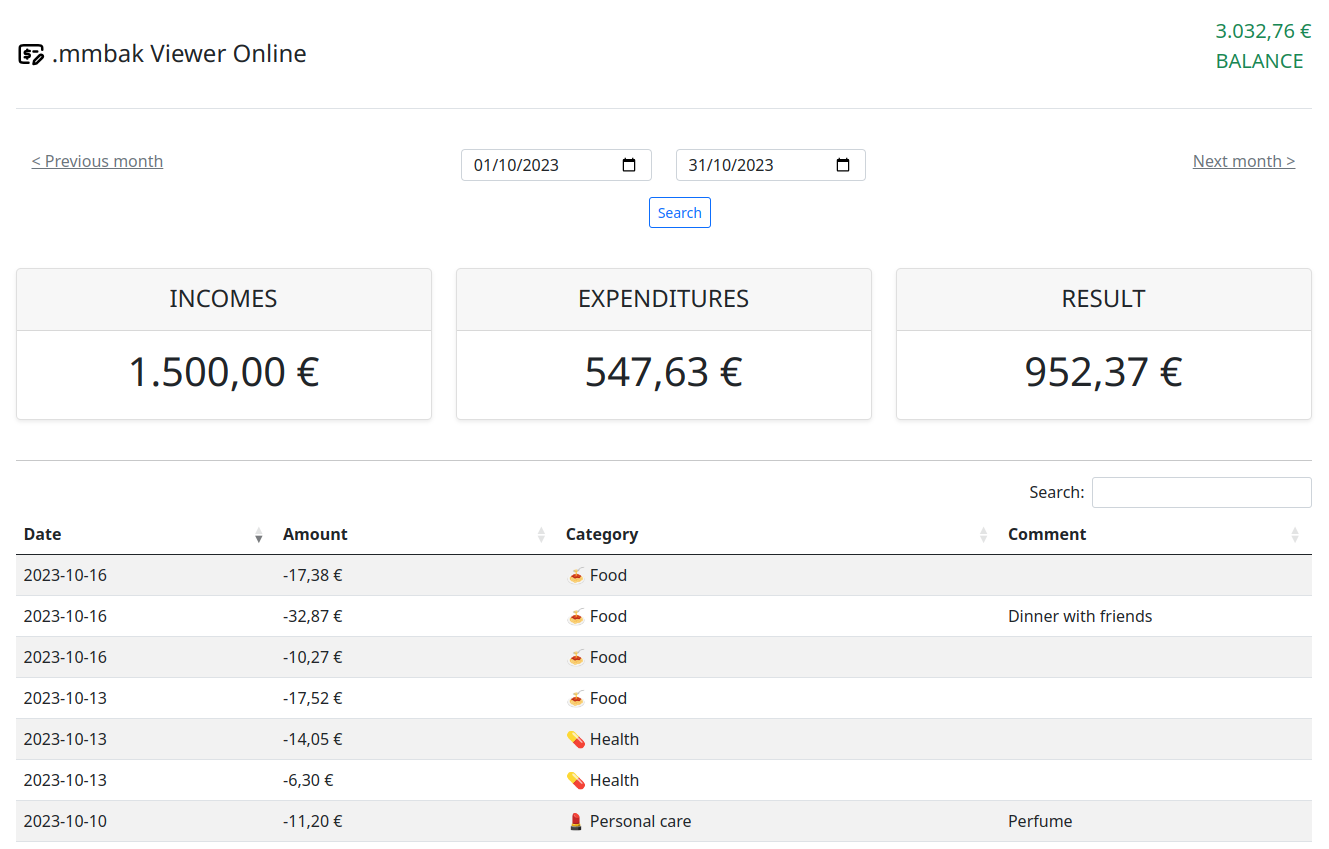
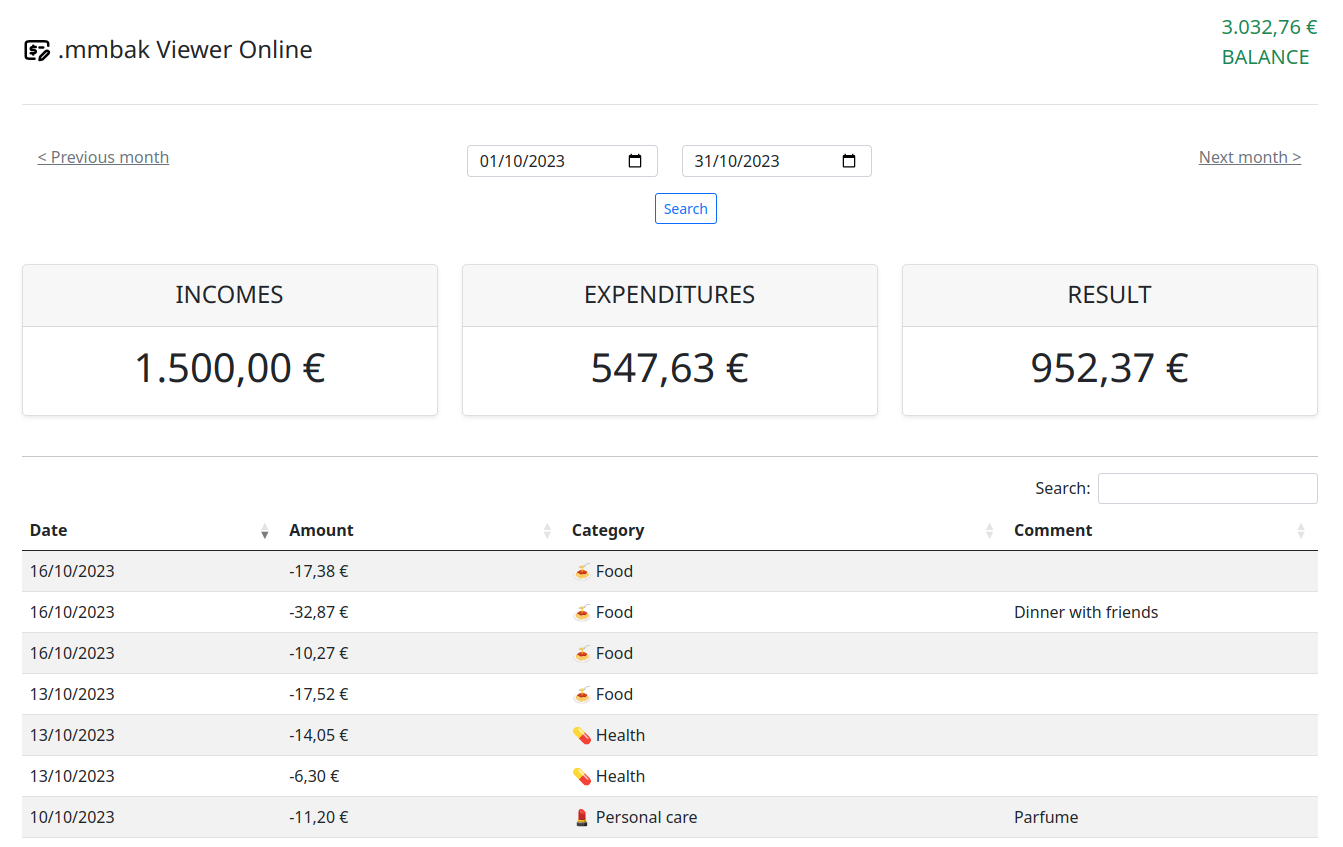
Better date display

diff --git a/templates/index.tpl.html b/templates/index.tpl.html
@@ -112,7 +112,7 @@
                     <tbody>
                         {foreach from=$transactions item=transaction}
                         <tr>
-                            <td>{$transaction.WDATE}</td>
+                            <td>{$transaction.WDATE|date_format:"%d/%m/%Y"}</td>
                             <td>{if $transaction.DO_TYPE}-{else}+{/if}{$transaction.AMOUNT_ACCOUNT|number_format:2:",":"."} {$currencies[$transaction["currencyUid"]]}</td>
                             <td>{$transaction.NAME}</td>
                             <td>{$transaction.ZCONTENT}</td>
